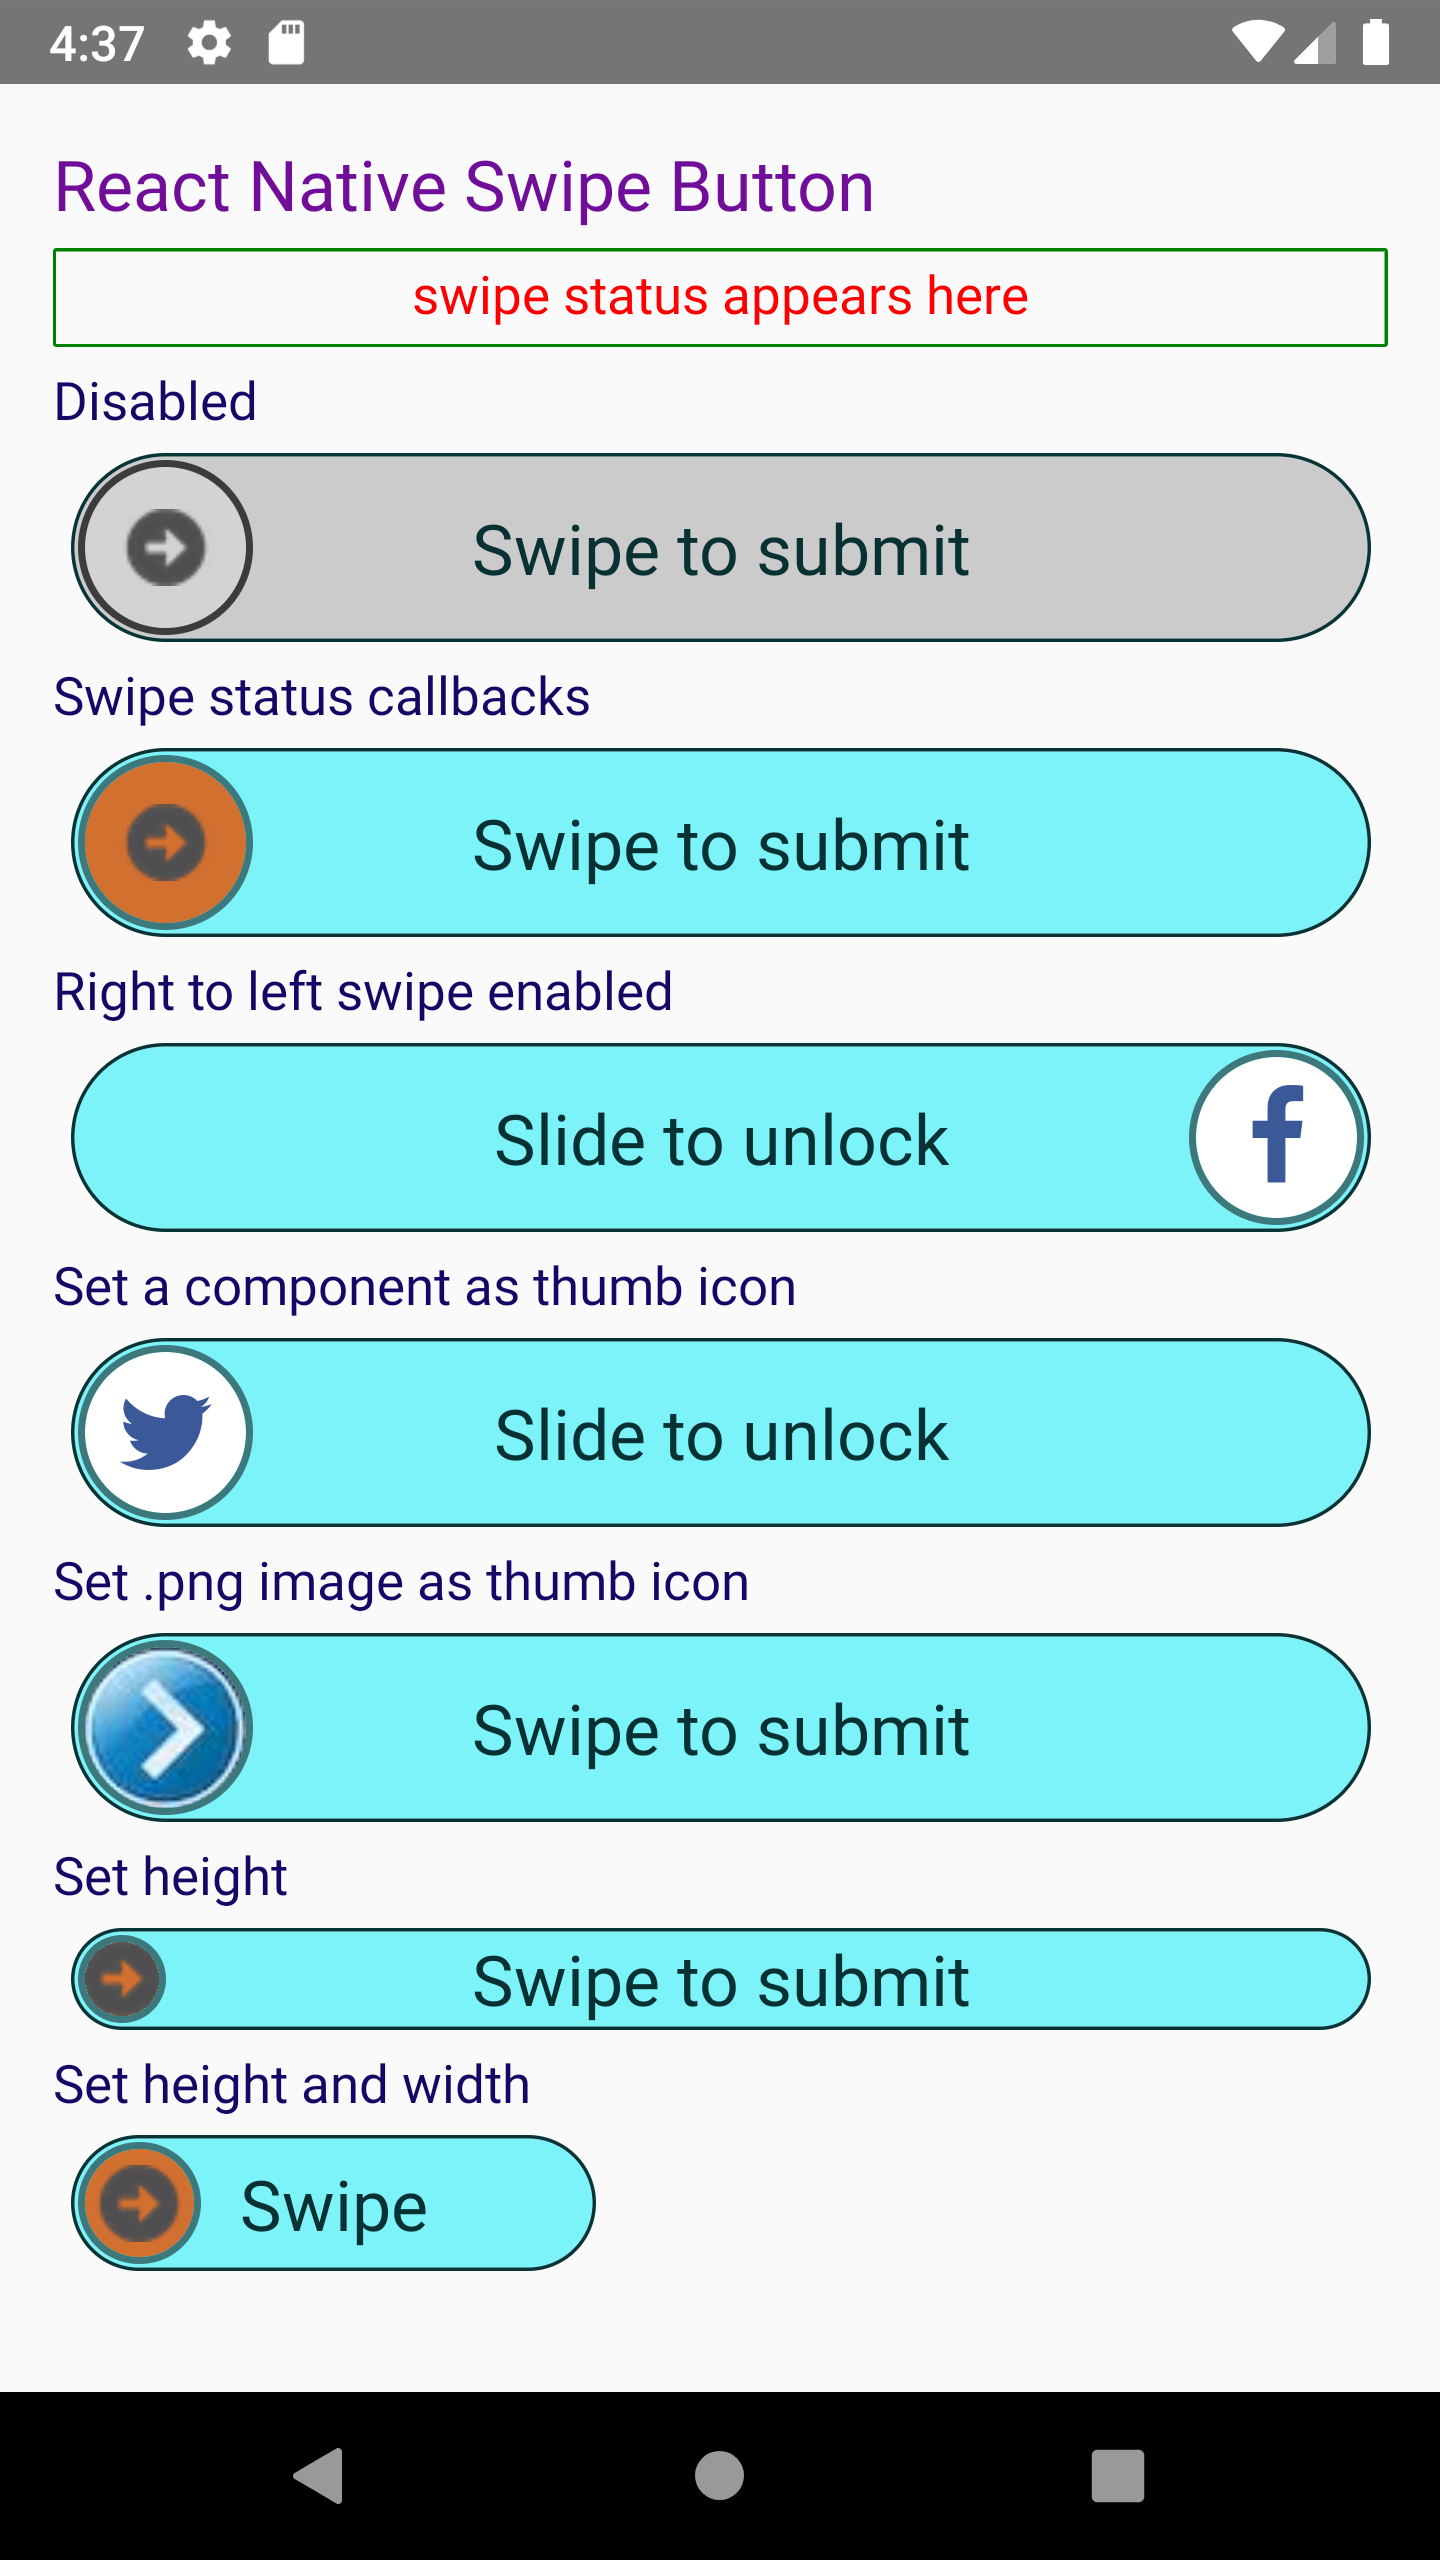
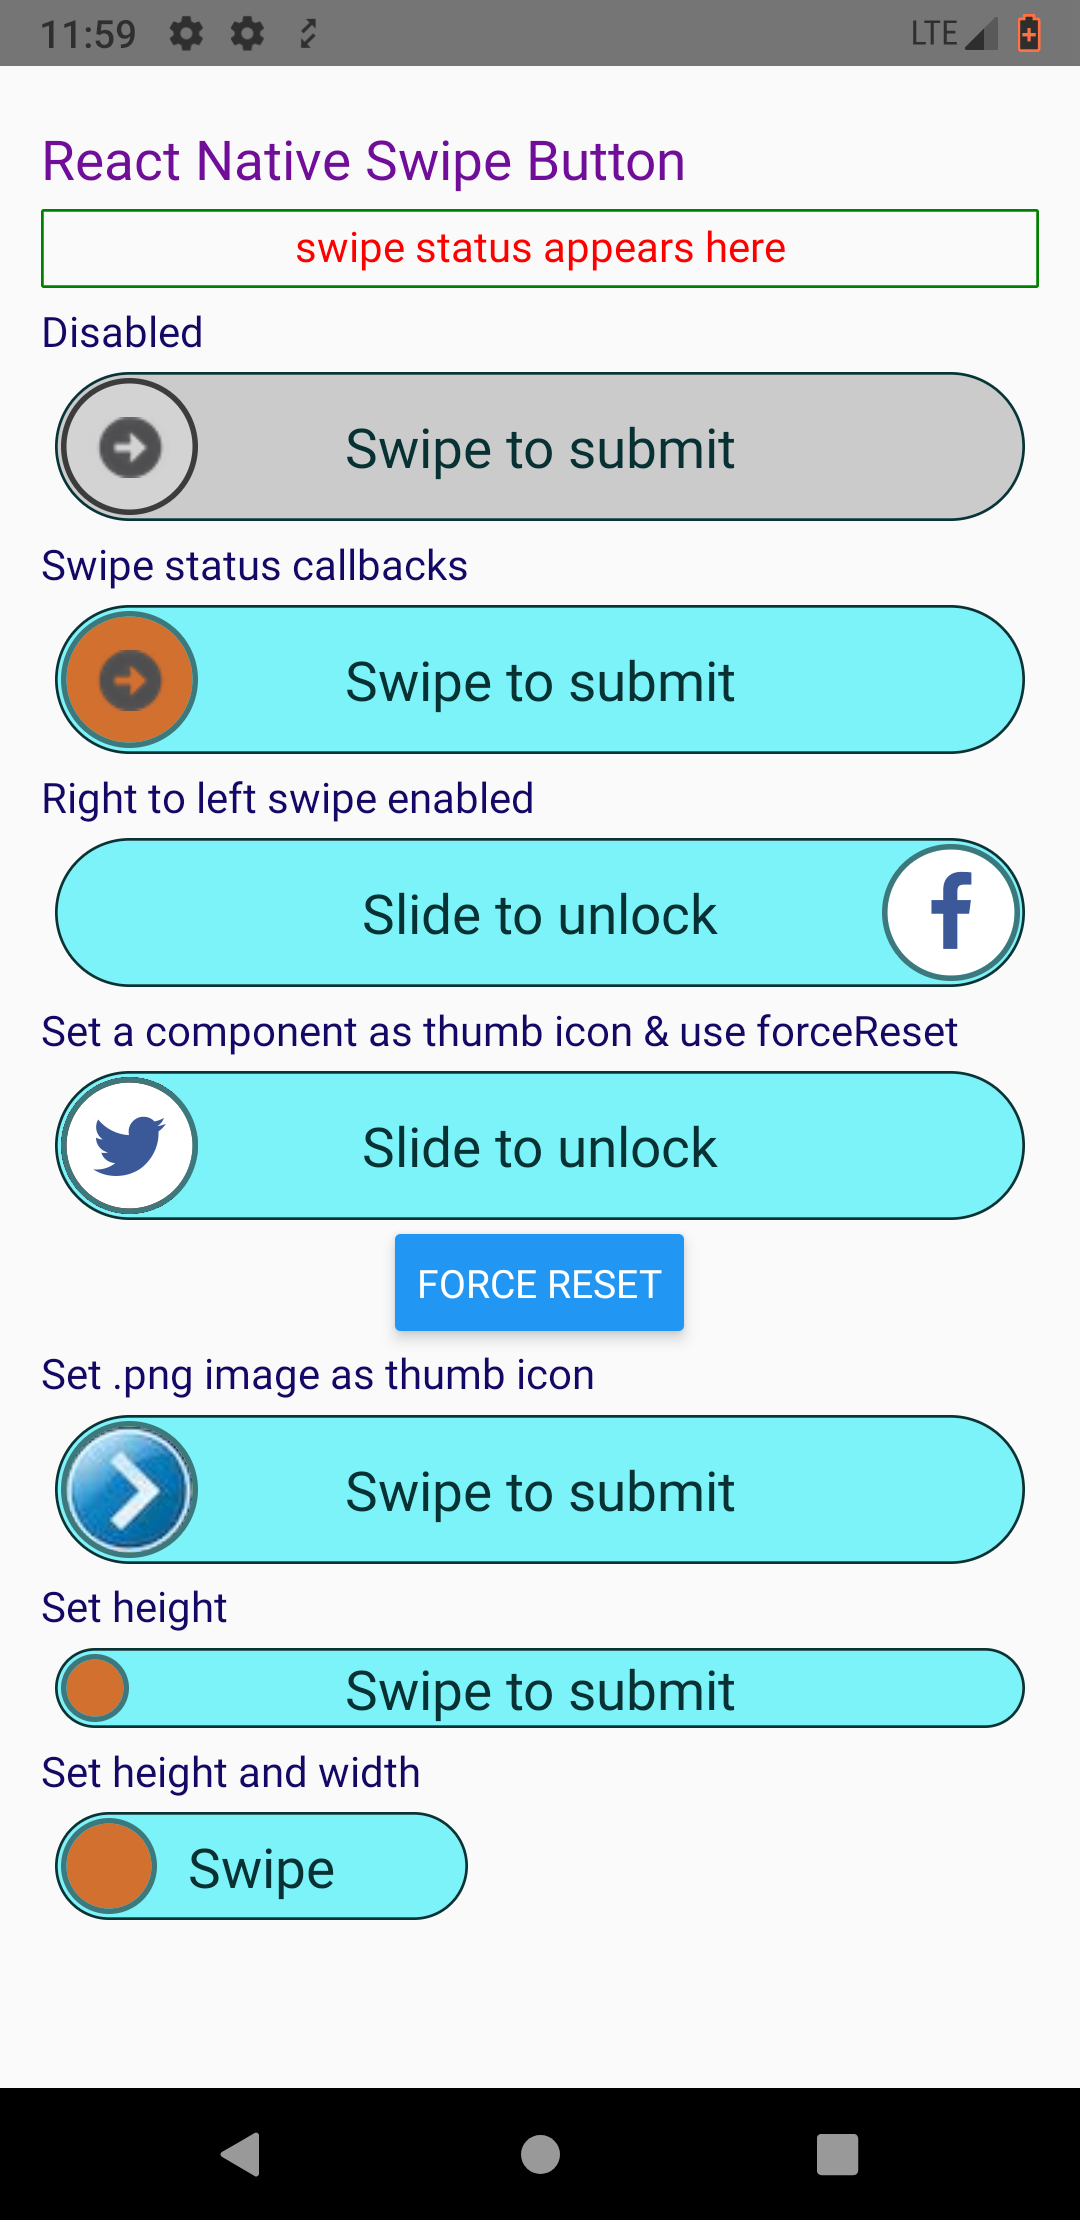
Fix for https://github.com/UdaySravanK/RNSwipeButton/issues/25 (#40)
- Adding a new prop to reset the swipe by calling a reset function returned by forceReset prop function
- Updated docs and screenshots

diff --git a/docs/index.html b/docs/index.html
@@ -1,7 +1,22 @@
 <!DOCTYPE html>
 <html style="padding: 30px;">
   <head>
-    
+    <style>
+      table {
+       background-color: rgb(15, 40, 48);
+      }
+      tr.table-heading {
+        background-color: rgb(47, 104, 126);
+      }
+      .title {
+        color: white;
+        text-align: center;
+        font-size: 16px;
+      }
+      .img-asset {
+        padding: 5px;
+      }
+      </style>
   </head>
   <body>
     <h2 style="color:darkgreen;">React Native Swipe Button Component</h2>
@@ -15,10 +30,19 @@
     </div>
     <hr>
     <div>
-      <h2 style="color:darkgreen;">Screenshots of Android and iOS</h2>
-      <img src="./rn-swipe-button-ios.png" width="200" style="margin-right: 30px;"/>
-      <img src="./rn-swipe-button.png" style="margin-right: 30px;" width="230"/>
-      <img src="./rn-swipe-button.gif" width="230" />
+      <h2 style="color:darkgreen;">Screenshots</h2>
+      <table border="1px">
+        <tr class="table-heading">
+          <td><p class="title">Android</p></td>
+          <td><p class="title">iOS</p></td>
+          <td><p class="title">iOS gif</p></td>
+        </tr>
+        <tr>
+          <td class="img-asset"><img width="200" src="./rn-swipe-button.png" /></td>
+          <td class="img-asset"><img width="200" src="./rn-swipe-button-ios.png" /></td>
+          <td class="img-asset"><img width="200" src="./rn-swipe-button.gif" /></td>
+        </tr>
+        </table>
     </div>
     <br>
     <hr/>
@@ -36,6 +60,8 @@
 
     <b>enableRightToLeftSwipe</b>: PropTypes.bool,
 
+    <b>forceReset</b>: PropTypes.func, // Check example code App.js
+    
     <b>height</b>: PropTypes.number,
 
     <b>onSwipeFail</b>: PropTypes.func,
@@ -52,7 +78,7 @@
 
     <b>railFillBorderColor</b>: PropTypes.string,
 
-    <br>railStyles</b>: PropTypes.object,
+    <b>railStyles</b>: PropTypes.object,
     
     <b>resetAfterSuccessAnimDuration</b>: PropTypes.number,
     

diff --git a/examples/RNSwipeButtonDemo/App.js b/examples/RNSwipeButtonDemo/App.js
@@ -7,7 +7,7 @@
  */
 
 import React, {useState} from 'react';
-import {SafeAreaView, View, Text, StatusBar} from 'react-native';
+import {SafeAreaView, View, Text, StatusBar, Button} from 'react-native';
 
 import Icon from 'react-native-vector-icons/FontAwesome';
 
@@ -40,6 +40,7 @@ const App: () => React$Node = () => {
   const renderSubHeading = (heading) => (
     <Text style={styles.subHeading}>{heading}</Text>
   );
+  let forceResetLastButton = null;
 
   return (
     <>
@@ -67,7 +68,7 @@ const App: () => React$Node = () => {
             title="Slide to unlock"
             onSwipeSuccess={() => updateSwipeStatusMessage('Slide success!')}
           />
-          {renderSubHeading('Set a component as thumb icon')}
+          {renderSubHeading('Set a component as thumb icon & use forceReset')}
           <SwipeButton
             thumbIconBackgroundColor="#FFFFFF"
             thumbIconComponent={TwitterIcon}
@@ -76,7 +77,13 @@ const App: () => React$Node = () => {
               backgroundColor: '#44000088',
               borderColor: '#880000FF',
             }}
+            forceReset={ reset => {
+              forceResetLastButton = reset
+            }}
           />
+          <View style={{ alignItems: 'center', marginBottom: 5 }}>
+            <Button onPress={() => forceResetLastButton && forceResetLastButton()} title="Force reset" />
+          </View>  
           {renderSubHeading('Set .png image as thumb icon')}
           <SwipeButton thumbIconImageSource={thumbIcon} />
           {renderSubHeading('Set height')}

diff --git a/src/components/SwipeThumb/index.js b/src/components/SwipeThumb/index.js
@@ -17,6 +17,7 @@ import { TRANSPARENT_COLOR } from '../../constants';
 const SwipeThumb = props => {
   const paddingAndMarginsOffset = borderWidth + 2 * margin;
   const defaultContainerWidth = props.iconSize;
+  const forceReset = props.forceReset;
   const maxWidth = props.layoutWidth - paddingAndMarginsOffset;
 
   const animatedWidth = useRef(new Animated.Value(defaultContainerWidth))
@@ -46,6 +47,10 @@ const SwipeThumb = props => {
       useNativeDriver: false,
     }).start();
   }, [animatedWidth, defaultWidth]);
+
+  useEffect(() => {
+    forceReset && forceReset(reset)
+  }, [forceReset])
 
   function onSwipeNotMetSuccessThreshold() {
     // Animate to initial position
@@ -225,6 +230,7 @@ SwipeThumb.propTypes = {
   disabledThumbIconBackgroundColor: PropTypes.string,
   disabledThumbIconBorderColor: PropTypes.string,
   enableRightToLeftSwipe: PropTypes.bool,
+  forceReset: PropTypes.func,
   iconSize: PropTypes.number,
   layoutWidth: PropTypes.number,
   onSwipeFail: PropTypes.func,

diff --git a/src/components/SwipeButton/index.js b/src/components/SwipeButton/index.js
@@ -73,6 +73,7 @@ const SwipeButton = props => {
     disabledThumbIconBackgroundColor,
     disabledThumbIconBorderColor,
     enableRightToLeftSwipe,
+    forceReset,
     height,
     onSwipeFail,
     onSwipeStart,
@@ -131,6 +132,7 @@ const SwipeButton = props => {
           disabledThumbIconBackgroundColor={disabledThumbIconBackgroundColor}
           disabledThumbIconBorderColor={disabledThumbIconBorderColor}
           enableRightToLeftSwipe={enableRightToLeftSwipe}
+          forceReset={forceReset}
           iconSize={height}
           layoutWidth={layoutWidth}
           onSwipeFail={onSwipeFail}
@@ -184,6 +186,7 @@ SwipeButton.propTypes = {
   disabledThumbIconBackgroundColor: PropTypes.string,
   disabledThumbIconBorderColor: PropTypes.string,
   enableRightToLeftSwipe: PropTypes.bool,
+  forceReset: PropTypes.func,
   height: PropTypes.oneOfType([PropTypes.number, PropTypes.string]),
   onSwipeFail: PropTypes.func,
   onSwipeStart: PropTypes.func,

diff --git a/README.md b/README.md
@@ -9,17 +9,17 @@
 </div>
 <hr>
 <div>
-  <h2 style="color:darkgreen;">Screenshots of Android and iOS</h2>
-  <table>
+  <h2 style="color:darkgreen;">Screenshots</h2>
+  <table border>
 	<tr">
-	  <td><p style="text-align: 'center';">iOS</p></td>
-	  <td><p style="text-align: 'center';">Android</p></td>
-  	  <td><p style="text-align: 'center';">iOS GIF</p></td>
+	  <td style="padding: 5px;"><span>iOS</span></td>
+	  <td style="padding: 5px;"><span>Android</span></td>
+  	<td style="padding: 5px;"><span>iOS GIF</span></td>
 	</tr>
 	<tr>
      	  <td><img src="https://udaysravank.github.io/RNSwipeButton/rn-swipe-button-ios.png" width="200" style="margin-right: 30px;"/></td>
      	  <td><img src="https://udaysravank.github.io/RNSwipeButton/rn-swipe-button.png" style="margin-right: 30px;" width="200"/></td>
-          <td><img src="https://udaysravank.github.io/RNSwipeButton/rn-swipe-button.gif" style="margin-right: 30px;" width="200"/></td>
+        <td><img src="https://udaysravank.github.io/RNSwipeButton/rn-swipe-button.gif" style="margin-right: 30px;" width="200"/></td>
 	</tr>
   </table>
   <p>These screenshots are from demo app under examples folder in the repo</p>
@@ -33,6 +33,7 @@
     <b>disabledThumbIconBackgroundColor</b>: PropTypes.string,
     <b>disabledThumbIconBorderColor</b>: PropTypes.string,
     <b>enableRightToLeftSwipe</b>: PropTypes.bool,
+    <b>forceReset</b>: PropTypes.func, <span>// Check below example code</span>
     <b>height</b>: PropTypes.oneOfType([
        PropTypes.string,
        PropTypes.number,
@@ -71,8 +72,9 @@
 <h2 style="color:darkgreen;">Code for above screenshots</h2>
 
 ```
-import React from 'react';
-import {View, Text} from 'react-native';
+import React, {useState} from 'react';
+import {SafeAreaView, View, Text, StatusBar, Button} from 'react-native';
+
 import Icon from 'react-native-vector-icons/FontAwesome';
 
 import thumbIcon from './assets/thumbIcon.png';
@@ -81,70 +83,76 @@ import styles from './styles';
 
 import SwipeButton from 'rn-swipe-button';
 
-class App extends React.Component {
-  constructor(props) {
-    super(props);
-    this.state = {
-      message: 'swipe status appears here',
-    };
-  }
-  showToastMessage = message => this.setState({message});
-  renderSubHeading = heading => (
+
+const App: () => React$Node = () => {
+  const defaultStatusMessage = 'swipe status appears here';
+  const [swipeStatusMessage, setSwipeStatusMessage] = useState(
+    defaultStatusMessage,
+  );
+
+  const TwitterIcon = () => <Icon name="twitter" color="#3b5998" size={30} />;
+  const FacebookIcon = () => <Icon name="facebook" color="#3b5998" size={30} />;
+
+  setInterval(() => setSwipeStatusMessage(defaultStatusMessage), 5000);
+  const updateSwipeStatusMessage = (message) => setSwipeStatusMessage(message);
+  const renderSubHeading = (heading) => (
     <Text style={styles.subHeading}>{heading}</Text>
   );
-  renderSwipeStatus = () => (
-    <Text style={styles.swipeStatus}>{this.state.message}</Text>
+  let forceResetLastButton = null;
+
+  return (
+    <>
+      <StatusBar barStyle="dark-content" />
+      <SafeAreaView>
+        <View style={styles.container}>
+          <Text style={styles.title}>React Native Swipe Button</Text>
+          <Text style={styles.swipeStatus}>{swipeStatusMessage}</Text>
+          {renderSubHeading('Disabled')}
+          <SwipeButton thumbIconImageSource={arrowRight} disabled />
+          {renderSubHeading('Swipe status callbacks')}
+          <SwipeButton
+            thumbIconImageSource={arrowRight}
+            onSwipeStart={() => updateSwipeStatusMessage('Swipe started!')}
+            onSwipeFail={() => updateSwipeStatusMessage('Incomplete swipe!')}
+            onSwipeSuccess={() =>
+              updateSwipeStatusMessage('Submitted successfully!')
+            }
+          />
+          {renderSubHeading('Right to left swipe enabled')}
+          <SwipeButton
+            enableRightToLeftSwipe
+            thumbIconBackgroundColor="#FFFFFF"
+            thumbIconComponent={FacebookIcon}
+            title="Slide to unlock"
+            onSwipeSuccess={() => updateSwipeStatusMessage('Slide success!')}
+          />
+          {renderSubHeading('Set a component as thumb icon & use forceReset')}
+          <SwipeButton
+            thumbIconBackgroundColor="#FFFFFF"
+            thumbIconComponent={TwitterIcon}
+            title="Slide to unlock"
+            railStyles={{
+              backgroundColor: '#44000088',
+              borderColor: '#880000FF',
+            }}
+            forceReset={ reset => {
+              forceResetLastButton = reset
+            }}
+          />
+          <View style={{ alignItems: 'center', marginBottom: 5 }}>
+            <Button onPress={() => forceResetLastButton && forceResetLastButton()} title="Force reset" />
+          </View>  
+          {renderSubHeading('Set .png image as thumb icon')}
+          <SwipeButton thumbIconImageSource={thumbIcon} />
+          {renderSubHeading('Set height')}
+          <SwipeButton height={25} />
+          {renderSubHeading('Set height and width')}
+          <SwipeButton height={35} width={150} title="Swipe" />
+        </View>
+      </SafeAreaView>
+    </>
   );
-  render() {
-    const TwitterIcon = () => <Icon name="twitter" color="#3b5998" size={30} />;
-    const facebookIcon = () => (
-      <Icon name="facebook" color="#3b5998" size={30} />
-    );
-
-    setInterval(
-      () => this.setState({message: 'swipe status appears here'}),
-      5000,
-    );
-
-    return (
-      <View style={styles.container}>
-        <Text style={styles.title}>React Native Swipe Button</Text>
-        {this.renderSwipeStatus()}
-        {this.renderSubHeading('Disabled')}
-        <SwipeButton thumbIconImageSource={arrowRight} disabled />
-        {this.renderSubHeading('Swipe status callbacks')}
-        <SwipeButton
-          thumbIconImageSource={arrowRight}
-          onSwipeStart={() => this.showToastMessage('Swipe started!')}
-          onSwipeFail={() => this.showToastMessage('Incomplete swipe!')}
-          onSwipeSuccess={() =>
-            this.showToastMessage('Submitted successfully!')
-          }
-        />
-        {this.renderSubHeading('Right to left swipe enabled')}
-        <SwipeButton
-          enableRightToLeftSwipe
-          thumbIconBackgroundColor="#FFFFFF"
-          thumbIconComponent={facebookIcon}
-          title="Slide to unlock"
-          onSwipeSuccess={() => this.showToastMessage('Slide success!')}
-        />
-        {this.renderSubHeading('Set a component as thumb icon')}
-        <SwipeButton
-          thumbIconBackgroundColor="#FFFFFF"
-          thumbIconComponent={TwitterIcon}
-          title="Slide to unlock"
-        />
-        {this.renderSubHeading('Set .png image as thumb icon')}
-        <SwipeButton thumbIconImageSource={thumbIcon} />
-        {this.renderSubHeading('Set height')}
-        <SwipeButton height={25} />
-        {this.renderSubHeading('Set height and width')}
-        <SwipeButton height={35} width={150} title="Swipe" />
-      </View>
-    );
-  }
-}
+};
 ```
 
 Note: In accessibility mode this component works like a regular button (double tap to activate)
